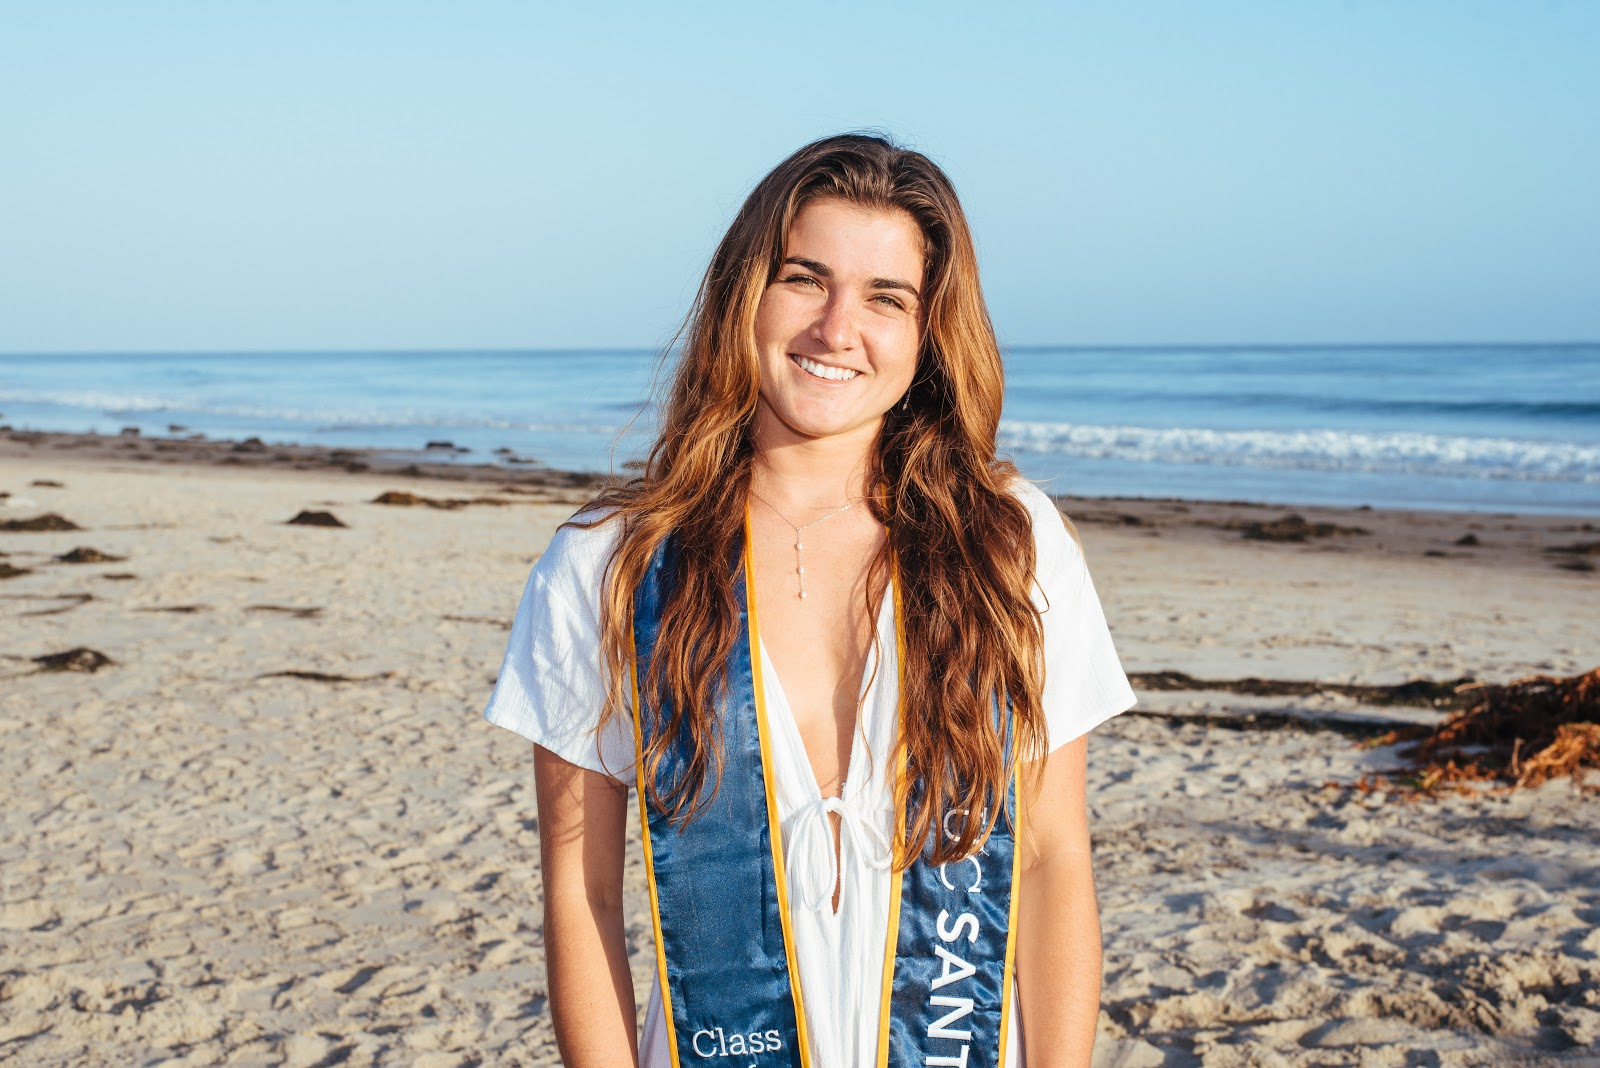
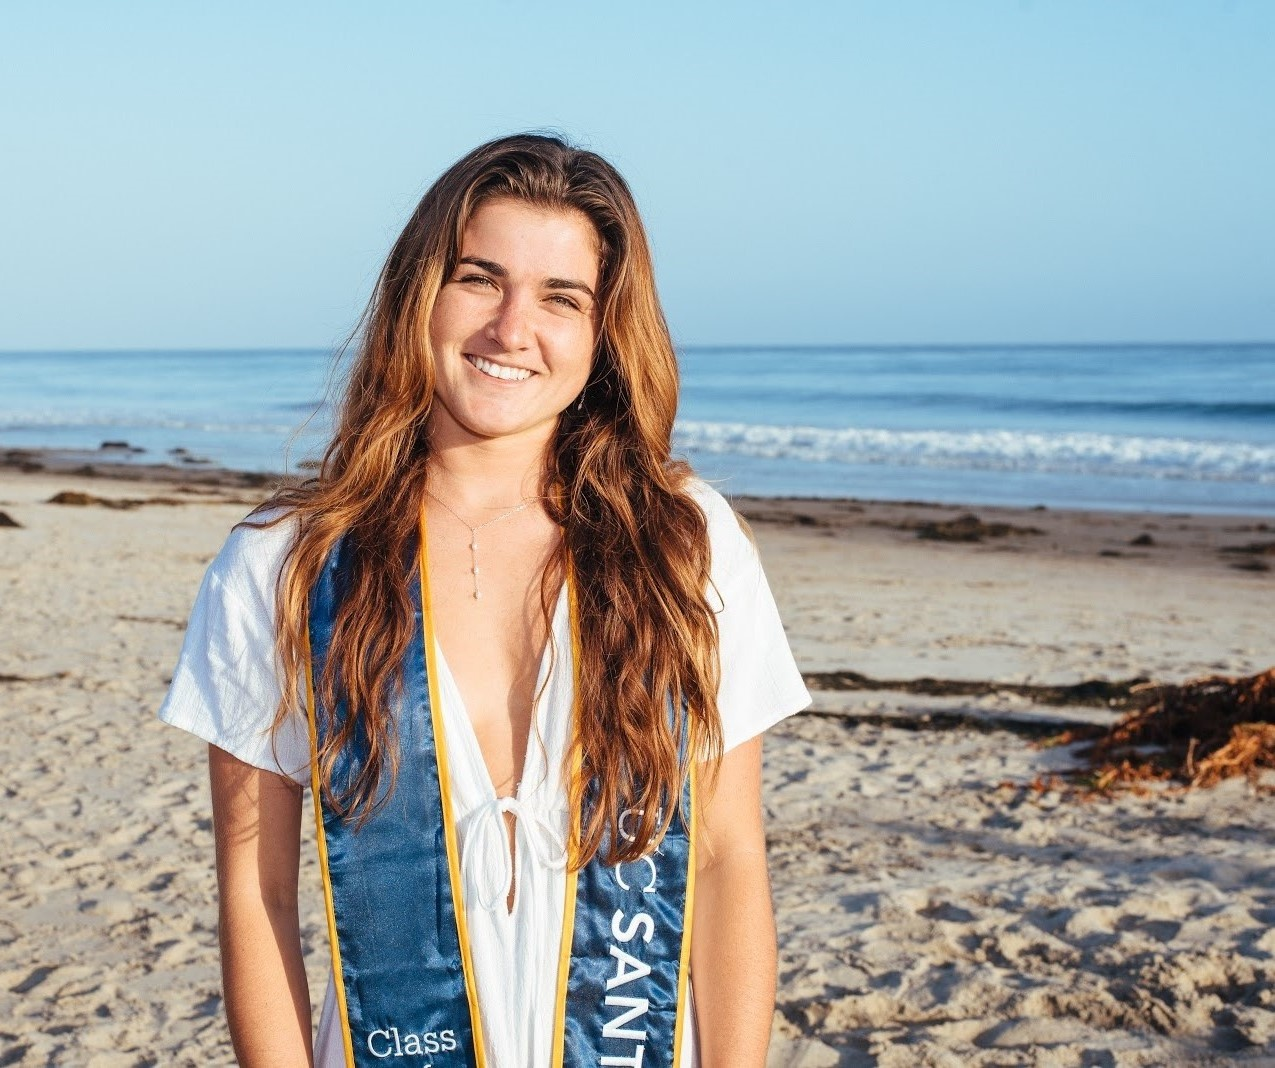
created a blob shape as my profile photo

diff --git a/index.html b/index.html
@@ -24,7 +24,22 @@
         <!-- Profile image -->
         <!-- TODO make it a fun shape -->
         <section class="me">
-            <img id="profile-pic"src="images\profile-pic.jpeg" alt="Shea Schwennicke"/>
+            <section id="profile-pic">
+                <!-- created a svg using a blob maker to give me the dims of the blob -->
+                <svg viewBox="0 0 200 200" xmlns="http://www.w3.org/2000/svg">
+               <!-- used to store info of pic to be used later and define the image dims -->
+               <!-- pretty much just setting up the blob dimensions to clip my photo with so that my pic turns into the blob shape -->
+                <defs>
+                    <!-- showing that the only image will be shown in the space outlined by the blob svg and that I defined the coordinate system" -->
+                    <clipPath id="blob" clipPathUnits="userSpaceOnUse"  >
+                        <path fill="#FF0066" d="M39.7,-70.3C51.1,-62.1,59.8,-50.8,69.1,-38.6C78.3,-26.4,88.1,-13.2,87.2,-0.5C86.4,12.2,74.8,24.4,65.6,36.6C56.3,48.8,49.3,61.1,38.8,71.1C28.2,81.2,14.1,89,1.1,87.1C-11.9,85.2,-23.9,73.6,-37.5,65.3C-51.1,57,-66.4,52.1,-74,41.8C-81.6,31.5,-81.4,15.7,-80.8,0.3C-80.2,-15.1,-79.3,-30.1,-71.5,-40.1C-63.6,-50,-49,-54.8,-36,-62C-22.9,-69.2,-11.5,-78.9,1.3,-81.2C14.1,-83.5,28.2,-78.5,39.7,-70.3Z" transform="translate(100 100)" />
+                    </clipPath>
+                </defs>
+                <!-- preserveAspectRatio is to preserve the shape of the SVG that I used and then linking my pic and then using the blob as my clipshape -->
+                <image  preserveAspectRatio=width="100%" height="100%" xlink:href="images\profile-pic.jpeg" clip-path="url(#blob)" />
+            </svg>
+            </section>
+    
             <section id="about">
                 <h2>About Me</h2>
                 <p>This is where I will put all the things about me and my experience! </p>

diff --git a/assets/style.css b/assets/style.css
@@ -57,9 +57,9 @@
         margin-top: 30px;
     }
     #profile-pic{
-        display: inline;
-        width: 40%;
-        margin: 20px;
+        /* display: inline; */
+        width: 35%;
+        margin: 15px;
     }
     #about{
         float: right;
@@ -132,6 +132,7 @@
    /*the beginnings of the screen adjustment  */
     @media screen and (max-width:992px) {
         /* for medium devices */
+        /* first app and next two will split the screen evenly  */
         
         #first-app{
             width:100%;
@@ -150,6 +151,7 @@
 
     @media screen and (max-width: 768px){
         /* small devices */
+        /* each app will take up its own row */
         main,
         nav{
             flex-direction: column;
